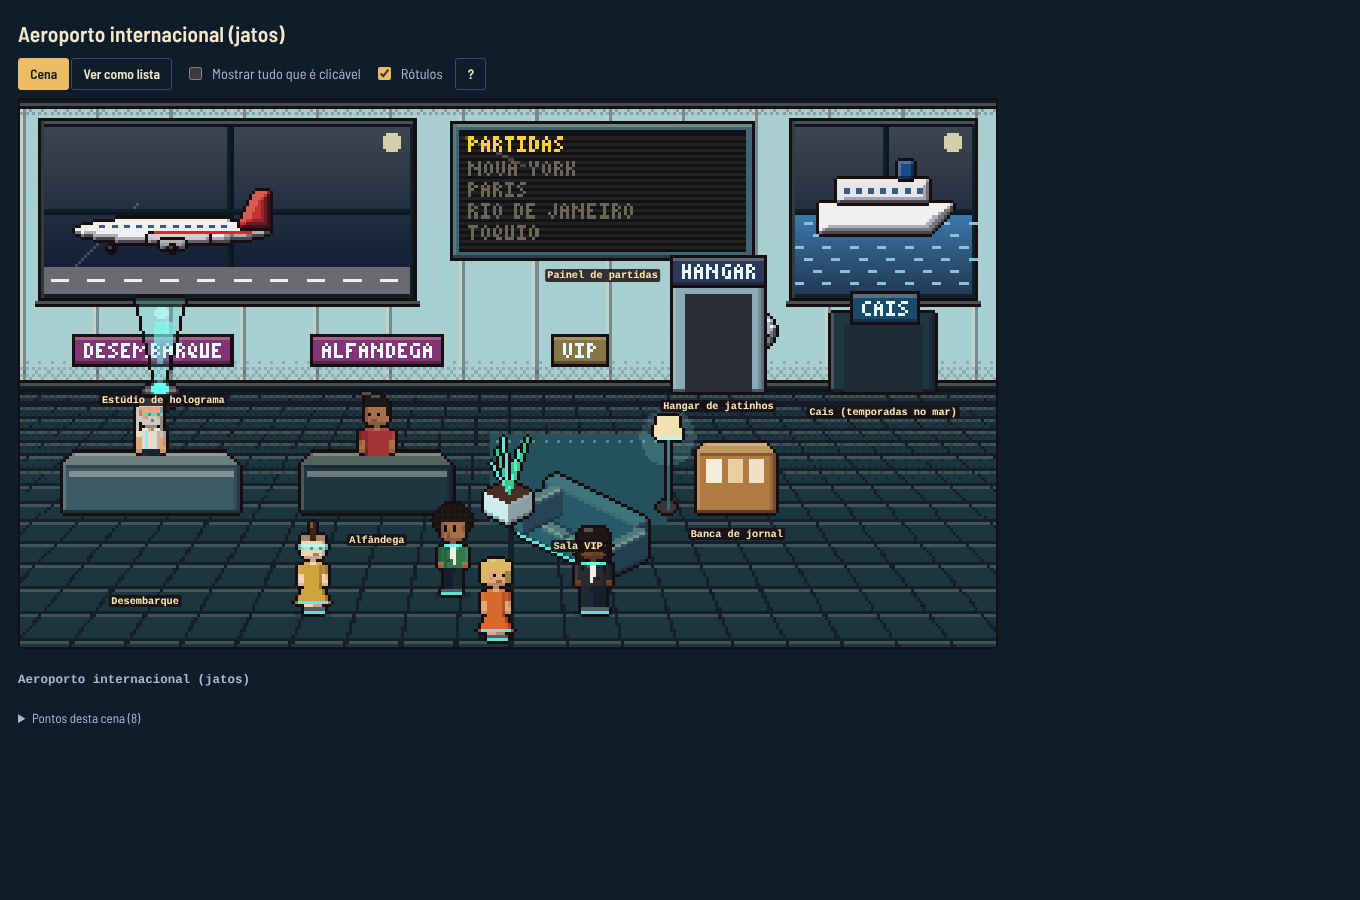
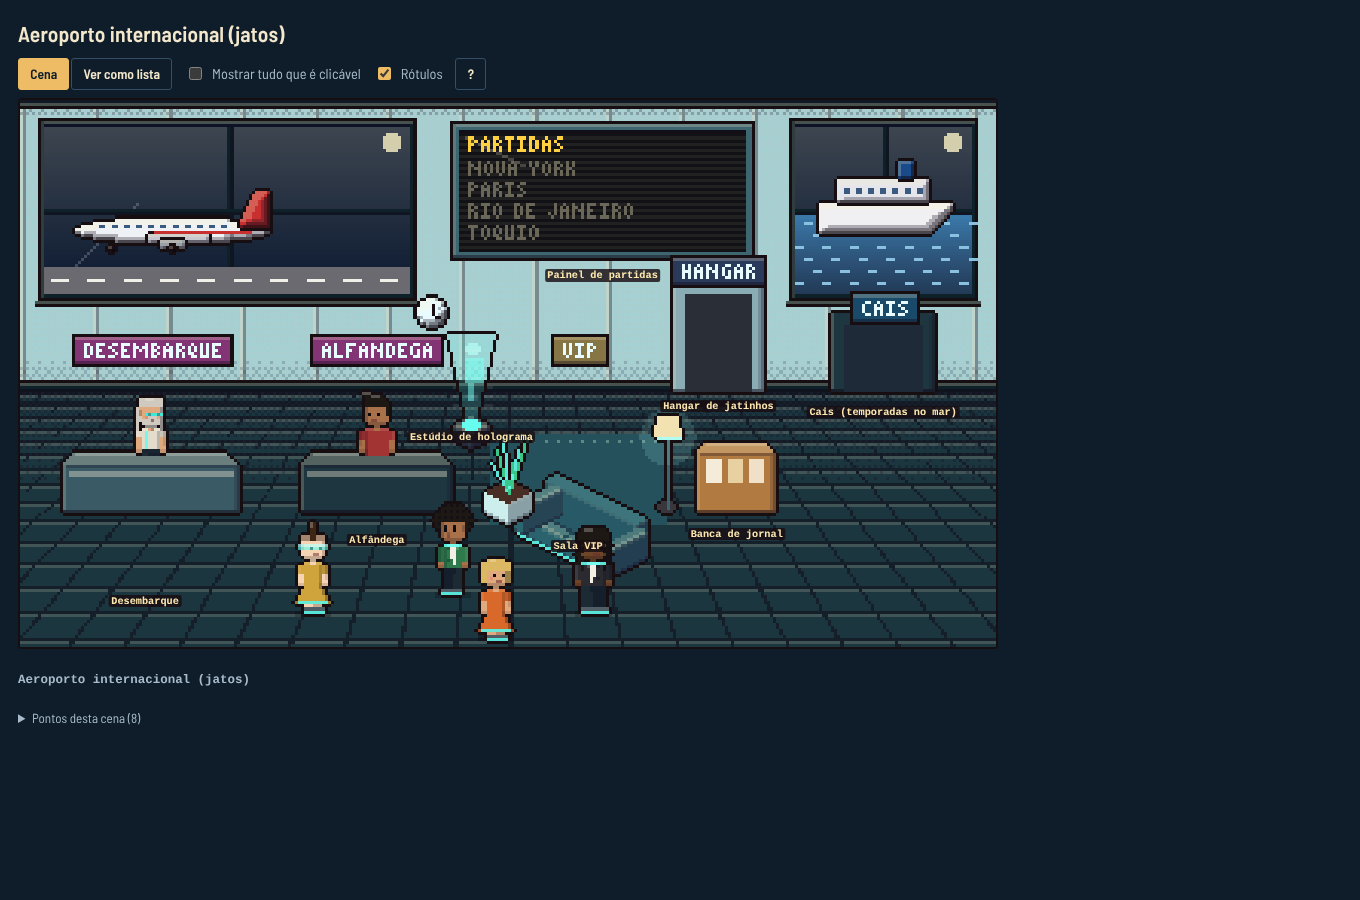
T: aeroporto — holograma e relógio sem sobreposição; capturas refeitas
Claude-Session: https://claude.ai/code/session_01Wf4saEzHrs53J5zhDEAGcS

diff --git a/src/ui/r31/airport31model.ts b/src/ui/r31/airport31model.ts
@@ -59,7 +59,7 @@ export function airport31Model(s: GameState): Air31 {
     tip: cruiseOpen31(s).length ? l('Orquestra de transatlântico, navio de cruzeiro ou cruzeiro temático, conforme a época.', 'Ocean-liner orchestra, cruise ship or theme cruise, depending on the era.') : l('Nesta época não há temporadas no mar.', 'No seasons at sea in this era.'), panel: 'sea',
     badge: atSea.length ? { text: String(atSea.length), level: 'info', sym: '⚓' } : undefined });
   if (hangar) sp({ id: 'hangar', x: 212, y: 48, w: 34, h: 48, label: l('Hangar de jatinhos', 'Private-jet hangar'), tip: l('Fretar avião para a turnê: poupa tempo e cansaço, custa caro.', 'Charter a plane for the tour: saves time and fatigue, costs a lot.'), panel: 'hangar' });
-  if (holo) sp({ id: 'holo', x: 30, y: 62, w: 34, h: 32, label: l('Estúdio de holograma', 'Hologram studio'), tip: l('Um show transmitido para várias cidades ao mesmo tempo (menos receita e fama que o ao vivo).', 'A show broadcast to several cities at once (less revenue and fame than live).'), panel: 'holo' });
+  if (holo) sp({ id: 'holo', x: 138, y: 72, w: 20, h: 34, label: l('Estúdio de holograma', 'Hologram studio'), tip: l('Um show transmitido para várias cidades ao mesmo tempo (menos receita e fama que o ao vivo).', 'A show broadcast to several cities at once (less revenue and fame than live).'), panel: 'holo' });
   sp({ id: 'news', x: 220, y: 110, w: 30, h: 28, label: l('Banca de jornal', 'Newsstand'), tip: l('As notícias da aviação e do transporte.', 'Aviation and transport news.'), panel: 'news',
     badge: news.some((f) => f.w >= s.week - 8) ? { text: l('nova', 'new'), level: 'info' } : undefined });
   if (events) sp({ id: 'events', x: 92, y: 74, w: 50, h: 22, label: l('Imigração', 'Immigration'), tip: fmtL(l('{n} visto(s) negado(s) nas turnês dos seus artistas.', '{n} visa(s) denied on your acts\' tours.'), { n: events }), panel: 'events', badge: { text: String(events), level: 'normal', sym: '!' } });

diff --git a/src/ui/r31/airport31.ts b/src/ui/r31/airport31.ts
@@ -120,8 +120,8 @@ function paint(cv: HTMLCanvasElement, s: GameState, m: Air31): void {
   ['london', 'new_york', 'paris', 'rio', 'tokyo'].filter((c) => c !== s.config.homeCity && !rows.some((f) => f.city === c)).slice(0, 4 - rows.length)
     .forEach((c, i) => drawText(p, fitText(cityN(c).toUpperCase(), 62), 147, 20 + (rows.length + i) * 7, chalk ? C('#7a8a74') : C('#6a6658')));
   // portas (hangar e cais) e relógio
-  discV(p, 248 - 6, 76, 6, pal.paper);
-  p.line(242, 76, 242, 72, INK); p.line(242, 76, 245, 77, INK);
+  discV(p, 135, 70, 5, pal.paper);
+  p.line(135, 70, 135, 67, INK); p.line(135, 70, 137, 71, INK);
   if (m.hangar) { box(p, 214, 60, 30, 36, tint(pal.metal, -0.1), 0); p.rect(218, 64, 22, 32, C('#2a2e36')); sign(p, 229, 52, T(l('HANGAR', 'HANGAR')), pal.paper, C('#2a3a5a')); }
   box(p, 266, 70, 34, 26, pal.woodDark, 0); p.rect(270, 74, 26, 22, C('#1e2a38')); sign(p, 283, 64, T(l('CAIS', 'PIER')), pal.paper, C('#1a4a6a'));
   // estúdio de holograma (2027+)
@@ -139,7 +139,7 @@ function paint(cv: HTMLCanvasElement, s: GameState, m: Air31): void {
   if (!ctx) return;
   const fur = (k: Parameters<typeof furniture>[0], x: number, y: number, f: 'SW' | 'SE' = 'SW'): void => { const sp = furniture(k, eraOf(m.year), f); ctx.drawImage(sp.c, x - sp.ax, y - sp.ay); };
   fur('sofa', 176, 136); fur('plant', 160, 128); fur('lamp', 212, 126);
-  if (m.holo) { fur('holo', 46, 92); }
+  if (m.holo) { fur('holo', 148, 104); }
   const dude = (id: string, x: number, y: number, dir: 'SE' | 'SW' | 'NE' | 'NW', scale = 1): void => {
     const sp = avatarSprite(lookOf({ id }), { year: m.year, role: null, pose: 'stand', dir });
     ctx.fillStyle = 'rgba(0,0,0,.22)'; ctx.fillRect(x - 6 * scale, y, 12 * scale, 2);
